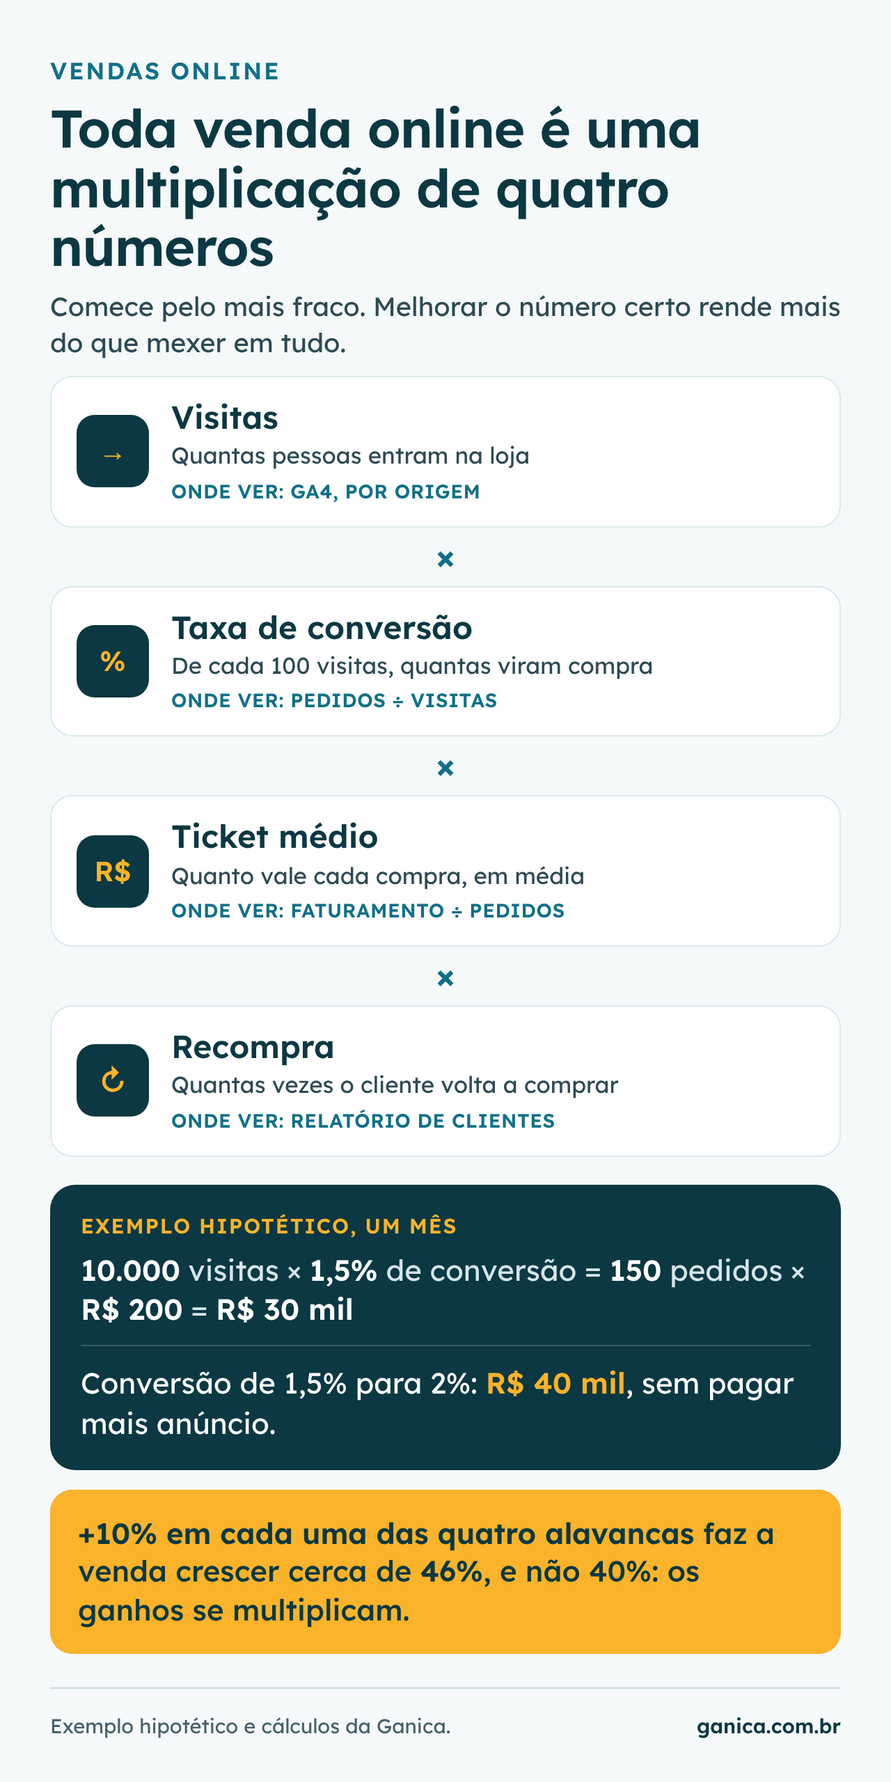
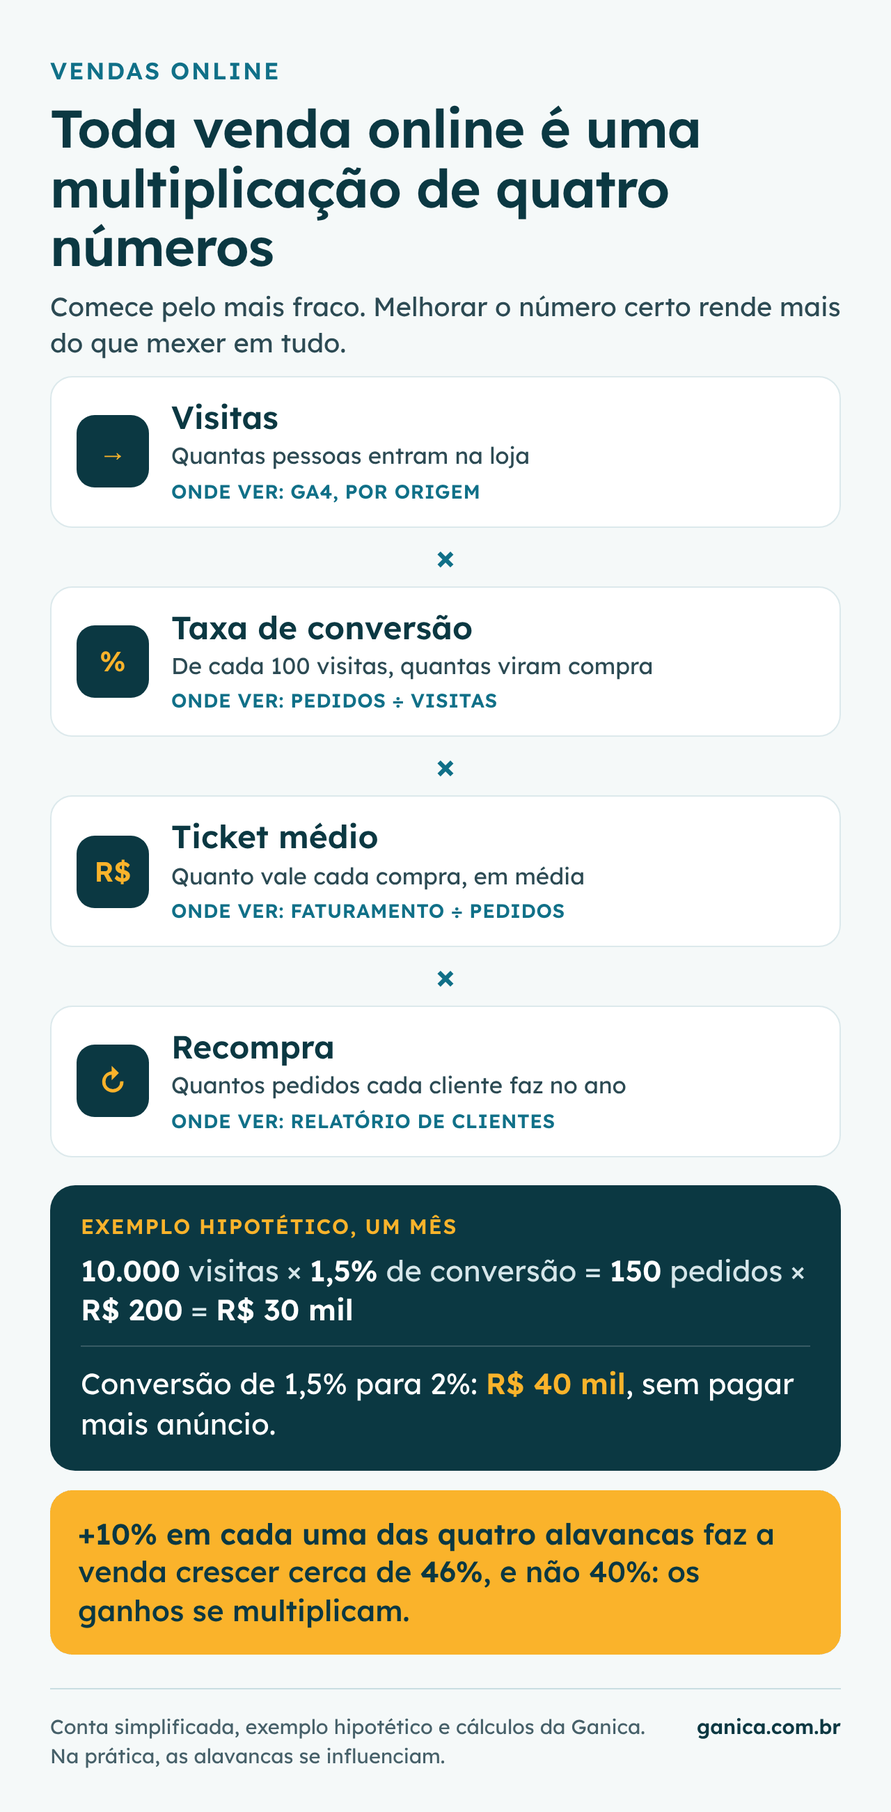
Publica estudo: Como aumentar as vendas online? Descubra primeiro onde a sua loja perde venda
Claude-Session: https://claude.ai/code/session_01MZ6zKQzQ7fEchzSiPqMuKm

diff --git a/src/artigos/como-aumentar-vendas-online.md b/src/artigos/como-aumentar-vendas-online.md
@@ -2,13 +2,13 @@
 title: "Como aumentar as vendas online? Descubra primeiro onde a sua loja perde venda"
 seo_title: "Como aumentar as vendas online: o método em 4 alavancas"
 og_title: "Como aumentar as vendas online: descubra primeiro onde a sua loja perde venda"
-description: "Para aumentar as vendas online, descubra qual das 4 alavancas está fraca: visitas, conversão, ticket médio ou recompra. Método simples, com dados do Brasil."
+description: "Como aumentar vendas online: descubra qual das 4 alavancas está fraca (visitas, conversão, ticket médio ou recompra). Método simples, com dados do Brasil."
 twitter_description: "Venda online é uma multiplicação de quatro números. O método simples para achar o mais fraco na sua loja e saber o que fazer primeiro."
 slug: como-aumentar-vendas-online
 date: '2026-11-04'
-hora: "21:00"
+hora: "19:37"
 updated: '2026-11-04'
-rascunho: true
+rascunho: false
 breadcrumb: Como aumentar as vendas online
 secao: E-commerce
 card_kicker: "Guia · Vendas online"
@@ -31,13 +31,13 @@ sobre:
   - Otimização de conversão (CRO)
   - E-commerce no Brasil
 resposta_curta: "Para aumentar as vendas online, descubra primeiro qual destes quatro números está fraco na sua loja: visitas, taxa de conversão, ticket médio ou recompra. A venda é a multiplicação deles. Melhore o mais fraco antes de comprar mais anúncios: anúncio leva gente a uma loja que talvez não esteja pronta para vender. Os números estão no Google Analytics e na sua plataforma."
-deck: "Quase todo guia sobre o tema traz uma lista de 10 a 25 dicas, sem dizer por qual começar. Este mostra a conta que está por trás de toda venda online, como achar o número mais fraco da sua loja e o que fazer com ele, sem jargão."
+deck: "Quase todo guia sobre o tema traz uma lista de 7 a 25 dicas, sem dizer por qual começar. Este mostra a conta que está por trás de toda venda online, como achar o número mais fraco da sua loja e o que fazer com ele, sem jargão."
 resumo:
-  - "Venda online é uma multiplicação: **visitas x taxa de conversão x ticket médio**, repetida a cada **recompra**. Melhorar o número mais fraco rende mais do que mexer em tudo ao mesmo tempo."
-  - "Pela conta da Ganica, melhorar **10%** em cada uma das quatro alavancas faz a venda crescer cerca de **46%**, e não 40%, porque os ganhos se multiplicam."
+  - "Venda online é uma multiplicação: as **visitas** que **convertem** viram clientes, e cada cliente compra **algumas vezes** com um **ticket médio**. Melhorar o número mais fraco rende mais do que mexer em tudo ao mesmo tempo."
+  - "Num exemplo simples da Ganica, melhorar **10%** em cada uma das quatro alavancas faz a venda crescer cerca de **46%**, e não 40%, porque os ganhos se multiplicam."
   - "O cliente online brasileiro já compra várias vezes: segundo a Abiacom, foram **438,9 milhões** de pedidos para **94,2 milhões** de compradores em 2025, cerca de **4,7 pedidos** por pessoa no ano."
-  - "O celular é a porta de entrada: segundo a TIC Domicílios 2025, **65%** dos usuários de internet no Brasil acessam a rede só pelo celular."
-  - "O Pix virou o meio de pagamento mais usado no e-commerce, com **42%** do valor em 2025, segundo o Global Payments Report 2026."
+  - "O celular é a porta de entrada: segundo a TIC Domicílios 2025, **65%** dos usuários de internet no Brasil acessavam a rede só pelo celular."
+  - "O Pix foi o meio que mais movimentou dinheiro no e-commerce brasileiro em 2025, com **42%** do valor, segundo o Global Payments Report 2026."
 faq:
   - pergunta: "Qual é uma boa taxa de conversão para loja virtual?"
     resposta: "Não existe um número bom para todo mundo, porque a taxa muda com o tipo de produto, o preço e a origem das visitas. A comparação mais útil é com a própria loja: a mesma taxa no mês anterior, no mesmo mês do ano passado e separada entre celular e computador. Se a taxa caiu ou o celular converte muito menos, ali está o trabalho."
@@ -47,40 +47,40 @@ faq:
     resposta: "Vale quando a loja já converte bem quem chega. Se a taxa de conversão está baixa, o anúncio leva mais gente para o mesmo problema, e o custo de cada venda sobe. Na leitura da Ganica, primeiro se corrige o caminho de compra e depois se aumenta a verba."
   - pergunta: "É melhor vender em marketplace ou em loja própria?"
     resposta: "Muitas lojas usam os dois. O marketplace traz visitas que já querem comprar, mas cobra comissão e fica com o relacionamento com o cliente. A loja própria exige trazer as visitas, mas permite falar de novo com quem comprou, que é onde mora a recompra."
-fontes: "Abiacom: faturamento, pedidos, ticket médio e compradores do e-commerce brasileiro em 2025, conforme o Mundo do Marketing, fevereiro de 2026 (a divulgação não descreve o método). TIC Domicílios 2025, Cetic.br/NIC.br, tabela C16A, usuários de internet. Global Payments Report 2026 (Worldpay e Global Payments), participação do Pix e do cartão de crédito no e-commerce brasileiro em 2025, conforme o Portal Tela, maio de 2026. Milliseconds Make Millions, estudo da 55 e da Deloitte para o Google, com 37 sites dos Estados Unidos e da Europa e mais de 30 milhões de sessões no fim de 2019, publicado no web.dev. Lei 13.709/2018 (LGPD). Análise das dez páginas citadas pela Visão geral da IA do Google para a consulta \"como aumentar as vendas online\", feita pela Ganica em novembro de 2026. O exemplo da loja com 10 mil visitas é hipotético. Os cálculos de 46%, 4,7 pedidos e R$ 2.500 por comprador são da Ganica. A imagem é da Ganica."
+fontes: "Abiacom: faturamento, pedidos, ticket médio e compradores do e-commerce brasileiro em 2025, conforme o Mundo do Marketing, fevereiro de 2026 (a divulgação não descreve o método). TIC Domicílios 2025, Cetic.br/NIC.br, principais resultados, usuários de internet. Global Payments Report 2026 (Worldpay e Global Payments), participação do Pix e do cartão de crédito no e-commerce brasileiro em 2025, conforme o Portal Tela, maio de 2026. Milliseconds Make Millions, estudo da 55 e da Deloitte para o Google, com 37 sites dos Estados Unidos e da Europa e mais de 30 milhões de sessões no fim de 2019, publicado no web.dev. Lei 13.709/2018 (LGPD). Análise das dez páginas citadas pela Visão geral da IA do Google para a consulta \"como aumentar as vendas online\", feita pela Ganica em novembro de 2026. O exemplo da loja com 10 mil visitas é hipotético. Os cálculos de 46% e de 4,7 pedidos por comprador são da Ganica. A imagem é da Ganica."
 fontes_urls:
   - "E-commerce brasileiro fatura R$ 235,5 bilhões em 2025, dados da Abiacom (Mundo do Marketing) | https://mundodomarketing.com.br/e-commerce-brasileiro-cresce-15-3-e-fatura-r-235-5-bilhoes-em-2025"
-  - "TIC Domicílios 2025, tabela C16A (Cetic.br/NIC.br) | https://cetic.br/en/tics/domicilios/2025/individuos/C16A/"
+  - "TIC Domicílios 2025, principais resultados (Cetic.br/NIC.br, PDF) | https://cetic.br/media/analises/tic_domicilios_2025_principais_resultados.pdf"
   - "Pix atinge 42% dos pagamentos online no Brasil, Global Payments Report 2026 (Portal Tela) | https://www.portaltela.com/economia/2026/05/25/pix-atinge-42-dos-pagamentos-online-no-brasil/"
   - "Milissegundos, ganhe milhões, estudo da Deloitte para o Google (web.dev) | https://web.dev/case-studies/milliseconds-make-millions?hl=pt-br"
   - "Lei nº 13.709/2018, Lei Geral de Proteção de Dados (Planalto) | https://www.planalto.gov.br/ccivil_03/_ato2015-2018/2018/lei/l13709.htm"
 cta_titulo: "Quer saber qual alavanca está travando a sua loja?"
 cta_texto: "A conta é a mesma para todo mundo; o número mais fraco muda de loja para loja. Um diagnóstico de CRO mostra qual é o seu e o que vale corrigir primeiro, com os seus dados."
-autor_texto: "Sou consultor de CRO focado em e-commerce, com trabalho direto em estrutura de analytics (GTM, GA4, Looker Studio) e auditoria comportamental. Este guia segue a mesma ordem que uso nos diagnósticos que conduzo: primeiro achar onde a loja perde venda, depois decidir o que fazer."
+autor_texto: "Sou consultor de CRO focado em e-commerce, com trabalho direto em estrutura de analytics (GTM, GA4, Looker Studio) e auditoria comportamental. Este guia parte de uma ideia simples: primeiro achar onde a loja perde venda, depois decidir o que fazer."
 ---
 
 ## Como aumentar as vendas online?
 
-Para aumentar as vendas online, descubra primeiro qual parte da sua loja está fraca e comece por ela. Toda venda pela internet depende de quatro números: quantas pessoas visitam a loja, quantas delas compram, quanto cada uma gasta e quantas voltam a comprar. Se um desses números está baixo, nenhuma dica genérica resolve até ele melhorar.
+Para aumentar vendas online, descubra primeiro qual parte da sua loja está fraca e comece por ela. Toda venda pela internet depende de quatro números: quantas pessoas visitam a loja, quantas delas compram, quanto cada uma gasta e quantas voltam a comprar. Se um desses números está baixo, nenhuma dica genérica resolve até ele melhorar.
 
-A Ganica leu as dez páginas que a Visão geral da IA do Google cita para essa pergunta. Quase todas trazem listas de 7 a 25 dicas, e só uma sugere por onde começar. Também é comum usar números de outros países ou sem fonte. Este guia faz o caminho contrário: primeiro a conta, depois o diagnóstico e, por fim, o que fazer em cada caso.
+A Ganica leu as dez páginas que a Visão geral da IA do Google cita para essa pergunta. Quase todas trazem listas de 7 a 25 dicas, e só uma sugere por onde começar. Também é comum usar números de outros países ou sem fonte. Este guia propõe outra ordem: primeiro a conta, depois o diagnóstico com números e, por fim, o que fazer em cada caso.
 
 ## Quais são as quatro alavancas das vendas online?
 
-As quatro alavancas são visitas, taxa de conversão, ticket médio e recompra, e a venda é a multiplicação delas. Alavanca, aqui, é um número que, quando sobe, puxa a venda junto.
+As quatro alavancas são visitas, taxa de conversão, ticket médio e recompra, e a venda é a multiplicação delas. Alavanca, aqui, é um número que, quando sobe, puxa a venda junto. Numa conta simplificada do ano: as visitas que viram compra formam os clientes, cada cliente faz um certo número de pedidos (a recompra) e cada pedido vale o ticket médio.
 
 | Alavanca | O que significa, em palavras simples |
 |---|---|
 | Visitas | Quantas pessoas entram na loja |
 | Taxa de conversão | De cada 100 visitas, quantas viram compra |
 | Ticket médio | Quanto cada compra vale, em média |
-| Recompra | Quantas vezes o mesmo cliente volta a comprar |
+| Recompra | Quantos pedidos cada cliente faz no ano |
 
 *Leitura da Ganica.*
 
 Um exemplo hipotético ajuda. Uma loja com 10 mil visitas no mês, que converte 1,5% delas, tem 150 pedidos. Com ticket médio de R$ 200, vende R$ 30 mil. Se a conversão subir para 2%, a mesma loja passa a vender R$ 40 mil, sem gastar nada a mais com anúncio.
 
-Como os números se multiplicam, pequenas melhorias somadas viram uma grande. Pela conta da Ganica, melhorar 10% em cada uma das quatro alavancas faz a venda crescer cerca de 46%, e não 40%, porque cada ganho multiplica o anterior.
+Como os números se multiplicam, pequenas melhorias somadas viram uma grande. Num exemplo simples da Ganica, melhorar 10% em cada uma das quatro alavancas faz a venda crescer cerca de 46%, e não 40%, porque cada ganho multiplica o anterior. Na vida real as alavancas se influenciam, então o número serve para mostrar a ideia, não como previsão.
 
 O cliente online brasileiro já compra mais de uma vez. Segundo a [Abiacom](https://mundodomarketing.com.br/e-commerce-brasileiro-cresce-15-3-e-fatura-r-235-5-bilhoes-em-2025), o e-commerce teve 438,9 milhões de pedidos e 94,2 milhões de compradores em 2025, com ticket médio de R$ 536,60. Pela conta da Ganica, são cerca de 4,7 pedidos por comprador no ano. A recompra existe; a pergunta é se ela acontece na sua loja ou na do concorrente.
 
@@ -90,22 +90,22 @@ O cliente online brasileiro já compra mais de uma vez. Segundo a [Abiacom](http
 
 Comece pela alavanca mais fraca, e descubra qual é antes de gastar com qualquer ação. Os números estão no Google Analytics 4 (GA4), a ferramenta gratuita do Google que mede o que acontece no site, e no painel da sua plataforma de loja.
 
-1. **Anote as visitas do mês** no GA4, separadas por origem: busca do Google, anúncios, redes sociais, e-mail e acesso direto.
+1. **Anote as visitas do mês** no GA4, em Relatórios, Aquisição, Aquisição de tráfego. Ali elas aparecem separadas por origem: busca gratuita do Google, anúncios, redes sociais, e-mail e acesso direto (quem digitou o endereço da loja).
 2. **Calcule a taxa de conversão:** pedidos divididos por visitas, vezes 100. Faça a conta separada para celular e computador.
 3. **Calcule o ticket médio:** faturamento dividido pelo número de pedidos.
 4. **Veja a recompra:** dos clientes que compraram há um ano, quantos compraram de novo? A maioria das plataformas mostra isso no relatório de clientes.
 5. **Compare cada número com o mesmo mês do ano passado.** O que caiu, ou o que nunca subiu, é por onde começar.
 
-| Se você percebe que... | A alavanca fraca provavelmente é |
+| Sinal nos seus números | Alavanca fraca |
 |---|---|
-| Pouca gente entra na loja | Visitas |
-| Muita gente entra e pouca compra | Taxa de conversão |
-| Compram, mas sempre um item barato | Ticket médio |
-| Compram uma vez e somem | Recompra |
+| Visitas menores que no mesmo mês do ano passado | Visitas |
+| Conversão no celular bem abaixo da do computador | Taxa de conversão |
+| Ticket médio parado ou caindo | Ticket médio |
+| Poucos clientes de um ano atrás compraram de novo | Recompra |
 
 *Leitura da Ganica.*
 
-Há um erro comum nessa ordem. É um padrão que encontramos com frequência em diagnósticos: marcas que cresceram por busca orgânica e acesso direto decidem comprar anúncios e pagam para levar visitantes a páginas que ainda não convertem bem. A ordem certa é corrigir os problemas óbvios do caminho de compra e só então aumentar a verba.
+Há um erro comum nessa ordem. É um padrão que encontramos com frequência em diagnósticos: marcas que cresceram pela busca gratuita do Google e por acesso direto decidem comprar anúncios e pagam para levar visitantes a páginas que ainda não convertem bem. A ordem certa é corrigir os problemas óbvios do caminho de compra e só então aumentar a verba.
 
 ## Como atrair mais visitantes que compram?
 
@@ -115,16 +115,20 @@ Atrair mais visitantes só ajuda quando eles chegam com vontade de comprar o que
 - **Anúncios:** anúncios no Google e nas redes trazem visitas rápido, mas cada clique custa. Comece pelas buscas com intenção clara, como o nome do produto, e meça o custo de cada venda, não só o de cada clique.
 - **Marketplaces:** os marketplaces já têm gente procurando produtos, então funcionam como vitrine extra. Em troca, cobram comissão e ficam com o contato do cliente.
 - **Conteúdo e redes sociais:** mostrar o produto em uso e responder dúvidas reais ajuda a ser lembrado. É um caminho mais lento, que soma com o tempo.
+- **Datas comemorativas:** Black Friday, Natal e Dia das Mães concentram procura. Prepare com antecedência, como mostra o [guia de Natal e Ano Novo](/como-vender-mais-natal-ano-novo-ecommerce.html).
 
 ## Como fazer mais visitantes comprarem?
 
-Mais visitantes compram quando a loja tira as dúvidas e os obstáculos do caminho, e o primeiro lugar para olhar é o celular. Segundo a [TIC Domicílios 2025](https://cetic.br/en/tics/domicilios/2025/individuos/C16A/), do Cetic.br, 65% dos usuários de internet no Brasil acessam a rede só pelo celular. Faça você mesmo uma compra completa pelo celular, do anúncio até o pagamento, e anote cada vez que travar.
+Mais visitantes compram quando a loja tira as dúvidas e os obstáculos do caminho, e o primeiro lugar para olhar é o celular. Segundo a [TIC Domicílios 2025](https://cetic.br/media/analises/tic_domicilios_2025_principais_resultados.pdf), do Cetic.br, 65% dos usuários de internet no Brasil acessavam a rede só pelo celular em 2025. Faça você mesmo uma compra completa pelo celular, do anúncio até o pagamento, e anote cada vez que travar.
 
 - **Velocidade:** página lenta faz o cliente desistir. Em um [estudo da Deloitte para o Google](https://web.dev/case-studies/milliseconds-make-millions?hl=pt-br), com sites dos Estados Unidos e da Europa, deixar o site móvel 0,1 segundo mais rápido esteve ligado a 8,4% mais conversão no varejo. No Brasil não há estudo público igual, mas a direção ajuda a priorizar.
-- **Frete e prazo antes do carrinho:** mostre o valor do frete e a data de entrega já na página do produto. Na leitura da Ganica, custo que só aparece no fim é uma das surpresas que mais fazem o cliente desistir.
-- **Pagamento que o cliente prefere:** segundo o [Global Payments Report 2026](https://www.portaltela.com/economia/2026/05/25/pix-atinge-42-dos-pagamentos-online-no-brasil/), o Pix teve 42% do valor pago no e-commerce brasileiro em 2025, e o cartão de crédito, 40%. Pix fácil de copiar e parcelamento claro no cartão cobrem a maior parte das compras.
+- **Frete e prazo antes do carrinho:** mostre o valor do frete e a data de entrega já na página do produto. Na leitura da Ganica, custo que só aparece no fim tende a fazer o cliente desistir, e vale testar se é o caso da sua loja.
+- **Pagamento que o cliente prefere:** segundo o [Global Payments Report 2026](https://www.portaltela.com/economia/2026/05/25/pix-atinge-42-dos-pagamentos-online-no-brasil/), o Pix teve 42% do valor pago no e-commerce brasileiro em 2025, e o cartão de crédito, 40%. O relatório é de empresas de pagamento (Worldpay e Global Payments), divulgado pela imprensa. Pix fácil de copiar e parcelamento claro no cartão cobrem a maior parte das compras.
+- **Produto bem mostrado:** fotos de vários ângulos, medidas, e uma descrição que responde às dúvidas mais comuns.
+- **Avaliações de clientes:** peça avaliação depois da entrega e mostre as notas na página do produto, inclusive as críticas respondidas.
+- **Atendimento antes da compra:** um WhatsApp que responde rápido tira a dúvida que impediria a venda.
 - **Confiança:** CNPJ, endereço, política de troca e atendimento fáceis de achar. Quem desconfia procura esses dados, muitas vezes no [rodapé da loja](/rodape-ecommerce-confianca-saude.html).
-- **Etapa por etapa:** veja em qual passo do funil as pessoas param (produto, carrinho, pagamento). Às vezes a perda está [numa etapa só do celular](/conversao-checkout-mobile-funil-por-dispositivo.html), e redesenhar o site inteiro ataca o lugar errado.
+- **Etapa por etapa:** veja em qual passo da compra as pessoas param (produto, carrinho, pagamento). Esse caminho de passos é o que se chama de funil. Às vezes a perda está [numa etapa só do celular](/conversao-checkout-mobile-funil-por-dispositivo.html), e redesenhar o site inteiro ataca o lugar errado.
 
 ## Como aumentar o ticket médio sem dar desconto?
 
@@ -132,17 +136,18 @@ O ticket médio sobe quando a loja ajuda o cliente a comprar o que ele já ia pr
 
 - **Kits pela necessidade:** junte produtos pelo objetivo de quem compra, como um kit para quem começa a treinar, e não por sobra de estoque.
 - **Complementos na hora certa:** sugira o item que completa a compra, como a capa para o celular, na página do produto ou no carrinho.
-- **Frete grátis a partir de um valor:** escolha um valor um pouco acima do ticket médio atual e mostre no carrinho quanto falta para chegar lá. Teste e acompanhe a margem.
+- **Frete grátis a partir de um valor:** escolha um valor um pouco acima do ticket médio atual e mostre no carrinho quanto falta para chegar lá. Teste e acompanhe a margem, que é o que sobra de cada venda depois dos custos.
 - **Versão melhor, explicada:** quando há uma opção mais completa, diga em uma frase o que ela faz a mais. O cliente sobe de faixa quando entende a diferença.
 
 ## Como fazer o cliente comprar de novo?
 
-O cliente compra de novo quando a loja continua útil depois da entrega e tem um jeito permitido de falar com ele. Na leitura da Ganica, a primeira venda costuma ser a mais cara, porque muitas vezes pagou anúncio para acontecer; as seguintes podem vir de um e-mail ou de uma mensagem.
+O cliente compra de novo quando a loja continua útil depois da entrega e tem um jeito permitido de falar com ele. A primeira venda pode ser a mais cara, quando veio de anúncio; as seguintes podem vir de um e-mail ou de uma mensagem.
 
-1. **Peça o contato com permissão.** A [LGPD](https://www.planalto.gov.br/ccivil_03/_ato2015-2018/2018/lei/l13709.htm) exige uma base legal para usar dados pessoais. Para e-mail e WhatsApp de ofertas, o caminho seguro é o consentimento claro, separado da compra, com saída fácil.
+1. **Peça o contato com permissão.** A [LGPD](https://www.planalto.gov.br/ccivil_03/_ato2015-2018/2018/lei/l13709.htm) exige uma base legal, ou seja, um motivo previsto na lei, para usar dados pessoais. Para e-mail e WhatsApp de ofertas, o caminho seguro é o consentimento claro, separado da compra, com saída fácil.
 2. **Mande a mensagem que o cliente espera.** Confirmação, rastreio e, depois, a dica de uso do produto. Oferta só depois que a compra deu certo.
-3. **Lembre na hora da reposição.** Produtos que acabam, como cosméticos ou ração, têm um ciclo; avise perto dele.
-4. **Separe novos de recorrentes nos relatórios.** É outro padrão que encontramos em diagnósticos: o canal que parece campeão muitas vezes só tem mais clientes antigos. Saber quem é novo e quem voltou muda onde vale investir.
+3. **Recupere o carrinho abandonado.** Quem deixou produtos no carrinho e autorizou contato pode receber um lembrete por e-mail ou WhatsApp no mesmo dia.
+4. **Lembre na hora da reposição.** Produtos que acabam, como cosméticos ou ração, têm um ciclo; avise perto dele.
+5. **Separe novos de recorrentes nos relatórios.** É outro padrão que encontramos em diagnósticos: o canal que parece campeão muitas vezes só tem mais clientes antigos. Saber quem é novo e quem voltou muda onde vale investir.
 
 Quando a recompra sobe, a loja cresce sem depender só de mais visitas. É o que mostra a análise de [receita por cliente](/crescimento-ecommerce-brasil-receita-por-cliente.html) do e-commerce brasileiro.
 
@@ -150,4 +155,4 @@ Quando a recompra sobe, a loja cresce sem depender só de mais visitas. É o que
 
 Os números de mercado deste guia vêm de divulgações à imprensa, e a da Abiacom não descreve o método. O estudo de velocidade foi feito com sites dos Estados Unidos e da Europa, e não há estudo público equivalente com lojas brasileiras. Por isso, os números servem para entender a direção, não para prever o resultado da sua loja.
 
-Também não existe uma taxa de conversão "certa" que sirva para todos. O efeito de cada ação depende do produto, do preço e do público. O caminho seguro é medir antes, mudar uma coisa por vez e medir de novo, e um [diagnóstico de CRO](/#diagnostico) faz isso com os dados da sua loja.
+Também não existe uma taxa de conversão "certa" que sirva para todos. O efeito de cada ação depende do produto, do preço e do público. O caminho seguro é medir antes, mudar uma coisa por vez e medir de novo. Esse trabalho de aumentar a parte das visitas que vira venda se chama CRO, e um [diagnóstico de CRO](/#diagnostico) faz isso com os dados da sua loja.
